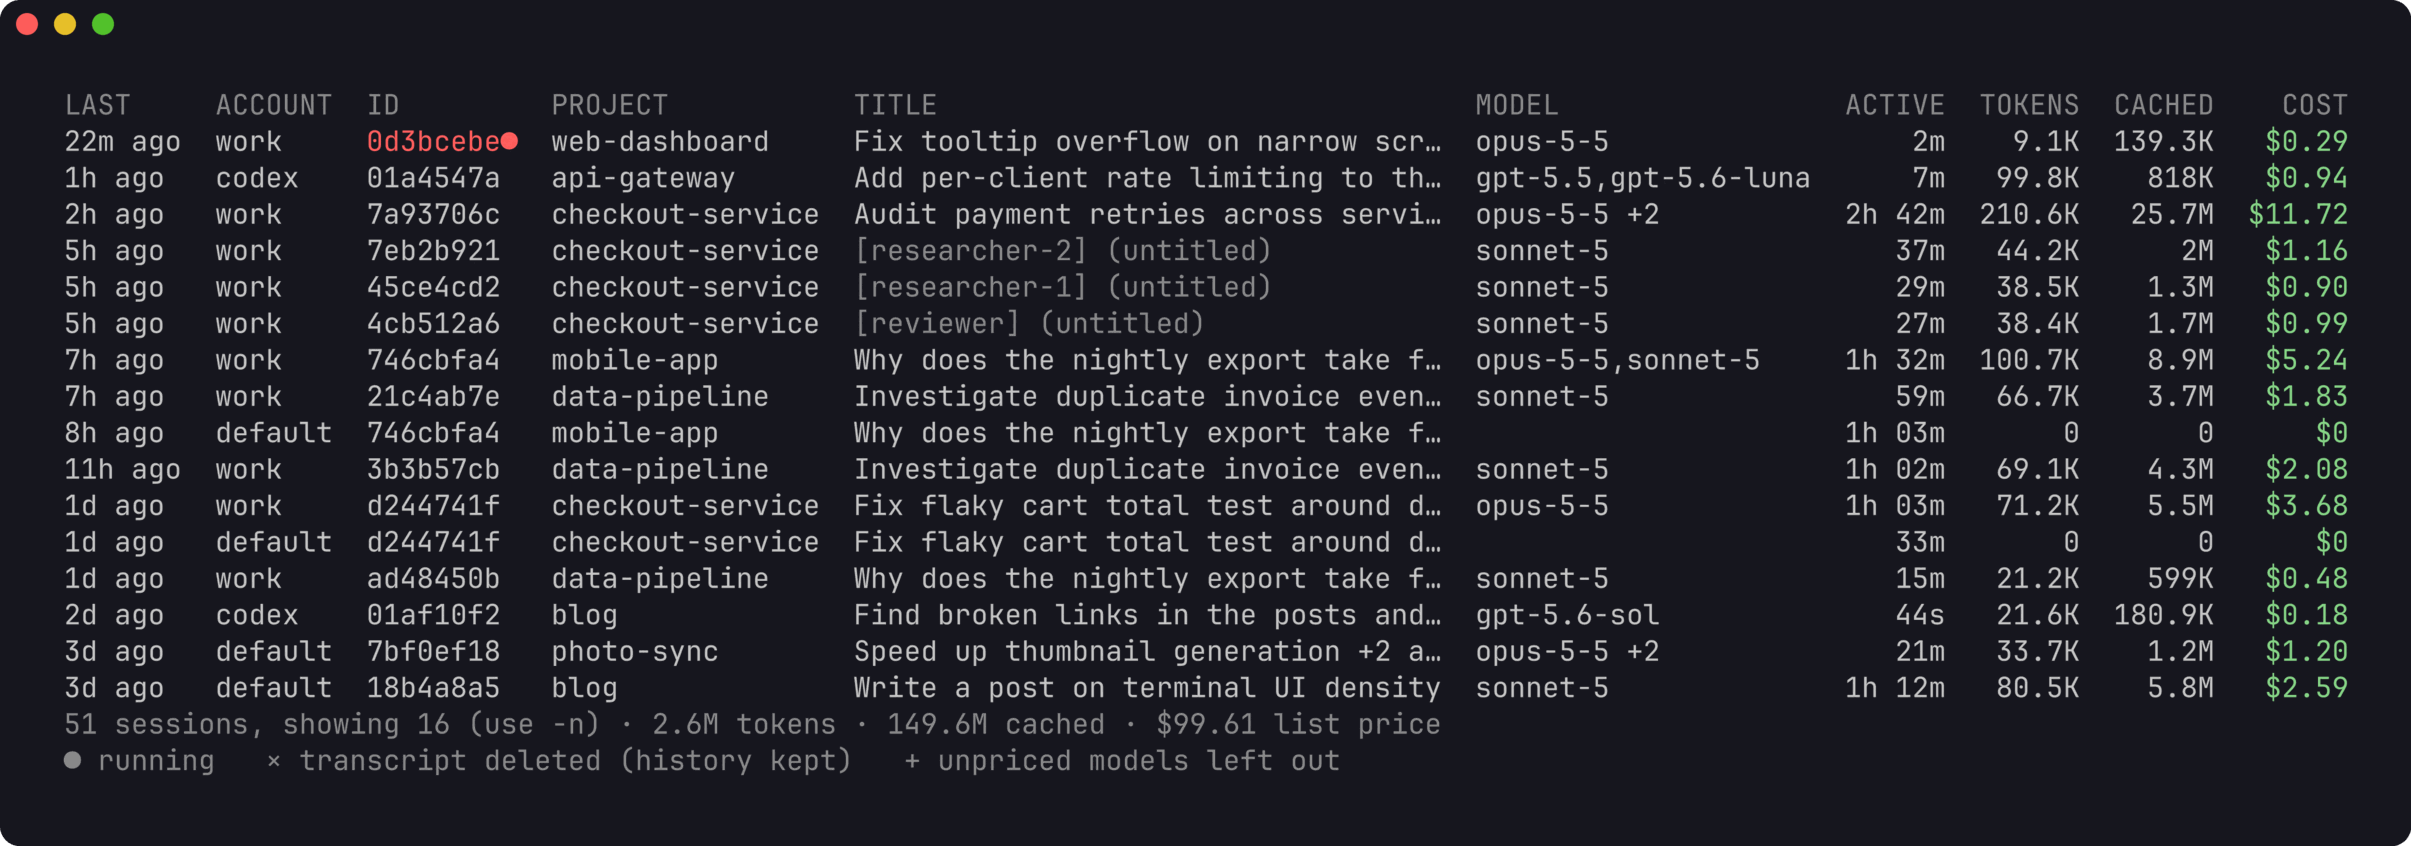
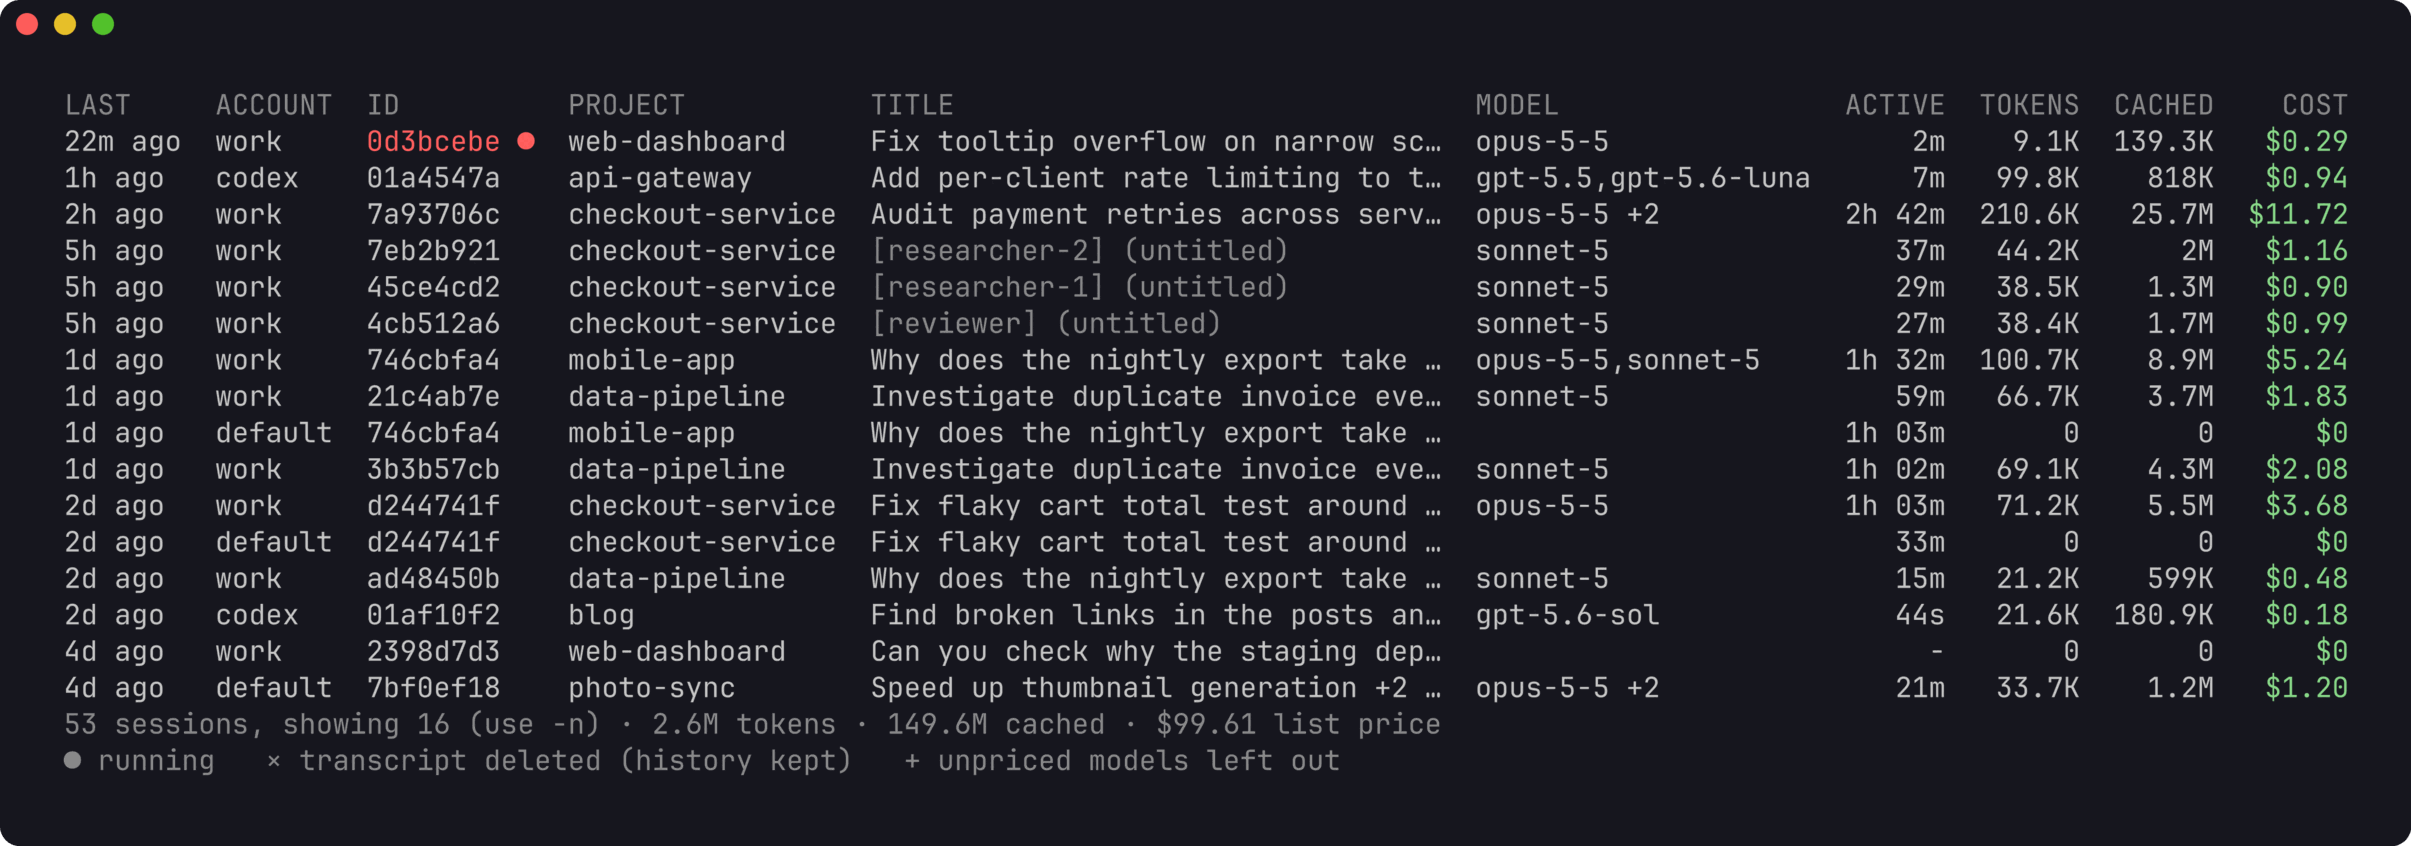
fix: show which account runs a copied session and where a copy came from
A session copied between accounts keeps its id, and the live-process
map was keyed by id alone, so a process running the copy in one account
marked every account's copy as running. The map is now keyed by account
and id. The commands that must not touch a session running anywhere
(copy, move, hide, clean) keep their own checks across accounts.

The list also had no sign of the copy relationship that ccli show
prints. A copied or moved session's account now reads "talcum ←
default", from the newest copy or move recorded in the transfer ledger;
forks are left out because they get a new id. JSON rows carry it as
copied_from.

The running and deleted marks now stand one space apart from the id, so
a double-click in the terminal selects the id alone.

Tested: go test ./..., and on the real index: only the account whose
process runs 1087b979 shows it running, and its row reads
"talcum ← default".

diff --git a/internal/query/query.go b/internal/query/query.go
@@ -151,7 +151,8 @@ type SessionRow struct {
 	Team         string       `json:"team,omitempty"`
 	AgentName    string       `json:"agent_name,omitempty"`
 	Live         bool         `json:"live"`
-	Hidden       bool         `json:"hidden,omitempty"` // set aside with `ccli hide`; counted in totals, left out of lists
+	CopiedFrom   string       `json:"copied_from,omitempty"` // account the newest copy or move into this one came from
+	Hidden       bool         `json:"hidden,omitempty"`      // set aside with `ccli hide`; counted in totals, left out of lists
 	Missing      bool         `json:"transcript_missing"`
 	GitBranch    string       `json:"git_branch,omitempty"`
 	Entrypoint   string       `json:"entrypoint,omitempty"`
@@ -179,7 +180,7 @@ type SessionPage struct {
 type DB struct {
 	st    *store.Store
 	accts []account.Account
-	live  map[string]account.Live // session id -> live process
+	live  map[skey]account.Live // live process per account and session id
 
 	cacheMu  sync.Mutex
 	cache    map[string]*SessionDetail // by ref; nil unless CacheSessions was called
@@ -197,9 +198,11 @@ func (d *DB) CacheSessions() { d.cache = map[string]*SessionDetail{} }
 
 // New builds a Service over the store.
 func New(st *store.Store, accts []account.Account) *DB {
-	live := map[string]account.Live{}
+	// Keyed by account too: a session copied between accounts has the same
+	// id in each, and a process runs only one of the copies.
+	live := map[skey]account.Live{}
 	for _, l := range account.LiveSessions(accts) {
-		live[l.SessionID] = l
+		live[skey{l.Account, l.SessionID}] = l
 	}
 	return &DB{st: st, accts: accts, live: live}
 }
@@ -208,12 +211,6 @@ func (d *DB) sql() *sql.DB { return d.st.DB() }
 
 // Accounts known to the service.
 func (d *DB) AccountList() []account.Account { return d.accts }
-
-// IsLive reports whether a process is running the session.
-func (d *DB) IsLive(id string) (account.Live, bool) {
-	l, ok := d.live[id]
-	return l, ok
-}
 
 func ms(t int64) time.Time {
 	if t == 0 {

diff --git a/internal/render/views.go b/internal/render/views.go
@@ -90,17 +90,21 @@ func (t Term) Sessions(p query.SessionPage, showAccount bool) {
 		column{title: "TOKENS", right: true}, column{title: "CACHED", right: true}, column{title: "COST", right: true},
 	)
 	var rows [][]string
+	copies := false
 	for _, s := range p.Sessions {
 		r := []string{t.Ago(s.Last)}
 		if showAccount {
-			r = append(r, s.Account)
+			r = append(r, t.accountCell(s))
+			copies = copies || s.CopiedFrom != ""
 		}
+		// The mark stands apart from the id, so a double-click selects
+		// the id alone.
 		id := query.ShortID(s.ID)
 		switch {
 		case s.Live:
-			id = t.paint(cLive, id+"●")
+			id = t.paint(cLive, id+" ●")
 		case s.Missing:
-			id = t.dim(id + "×")
+			id = t.dim(id + " ×")
 		}
 		ttl := s.Title
 		if ttl == "" {
@@ -137,7 +141,20 @@ func (t Term) Sessions(p query.SessionPage, showAccount bool) {
 	if p.Drafts > 0 {
 		t.draftsLeftOut(p.Drafts)
 	}
-	t.println(t.dim("● running   × transcript deleted (history kept)   + unpriced models left out"))
+	legend := "● running   × transcript deleted (history kept)   + unpriced models left out"
+	if copies {
+		legend += "   ← copied from that account"
+	}
+	t.println(t.dim(legend))
+}
+
+// accountCell names the session's account and, for a session ccli copied or
+// moved in, the account it came from.
+func (t Term) accountCell(s query.SessionRow) string {
+	if s.CopiedFrom == "" {
+		return s.Account
+	}
+	return s.Account + t.dim(" ← "+s.CopiedFrom)
 }
 
 func (t Term) sessionDetails(p query.SessionPage, showAccount bool) {
@@ -164,7 +181,7 @@ func (t Term) sessionDetails(p query.SessionPage, showAccount bool) {
 			where += "  " + s.Cwd
 		}
 		if showAccount {
-			where = s.Account + "  " + where
+			where = t.accountCell(s) + "  " + where
 		}
 		t.println("  " + t.dim(where))
 		t.printf("  %s · active %s · %d prompts · %d tool calls · %d subagents\n",

diff --git a/internal/query/sessions.go b/internal/query/sessions.go
@@ -67,6 +67,10 @@ func (d *DB) querySessions(ctx context.Context, f Filter, only *skey) ([]Session
 	if err != nil {
 		return nil, err
 	}
+	copied, err := d.copiedFrom(ctx)
+	if err != nil {
+		return nil, err
+	}
 	q, args := fmt.Sprintf(sessionSQL, ""), []any{f.sinceMS(), f.untilMS()}
 	if only != nil {
 		q = fmt.Sprintf(sessionSQL, "WHERE account = ?3 AND session_id = ?4")
@@ -100,7 +104,8 @@ func (d *DB) querySessions(ctx context.Context, f Filter, only *skey) ([]Session
 		s.Missing = missing != 0
 		s.Project = projectName(s.Cwd, s.ProjectKey)
 		s.Models = models[skey{s.Account, s.ID}]
-		_, s.Live = d.live[s.ID]
+		_, s.Live = d.live[skey{s.Account, s.ID}]
+		s.CopiedFrom = copied[skey{s.Account, s.ID}]
 		if !matches(s, f) {
 			continue
 		}
@@ -291,6 +296,26 @@ func RangeDays(n int, loc *time.Location) (time.Time, time.Time) {
 }
 
 // sessionModels lists each session's models, costliest first.
+// copiedFrom maps a session in an account to the account the newest copy or
+// move into it came from. A fork is left out: it gets a new id.
+func (d *DB) copiedFrom(ctx context.Context) (map[skey]string, error) {
+	rows, err := d.sql().QueryContext(ctx, `SELECT to_account, session_id, from_account FROM transfers WHERE mode <> 'fork' ORDER BY id`)
+	if err != nil {
+		return nil, err
+	}
+	defer rows.Close()
+	out := map[skey]string{}
+	for rows.Next() {
+		var k skey
+		var from string
+		if err := rows.Scan(&k.account, &k.id, &from); err != nil {
+			return nil, err
+		}
+		out[k] = from
+	}
+	return out, rows.Err()
+}
+
 func (d *DB) sessionModels(ctx context.Context, only *skey) (map[skey][]string, error) {
 	const q = `SELECT account, session_id, model FROM responses %s
 		GROUP BY account, session_id, model ORDER BY account, session_id, SUM(COALESCE(cost, 0)) DESC`

diff --git a/internal/query/query_test.go b/internal/query/query_test.go
@@ -286,3 +286,35 @@ func TestShortID(t *testing.T) {
 		t.Fatal("ShortID")
 	}
 }
+
+// A session copied between accounts has the same id in each. A process runs
+// one copy, so only that account's row is live, and the copy names the
+// account it came from.
+func TestCopiedSessionLiveAndSource(t *testing.T) {
+	fx := setup(t)
+	ctx := context.Background()
+	work := fx.accts[1]
+	os.MkdirAll(filepath.Join(work.Dir, "sessions"), 0o755)
+	reg := fmt.Sprintf(`{"sessionId":%q,"status":"busy","cwd":"/work/alpha"}`, lead)
+	if err := os.WriteFile(filepath.Join(work.Dir, "sessions", fmt.Sprintf("%d.json", os.Getpid())), []byte(reg), 0o644); err != nil {
+		t.Fatal(err)
+	}
+	if err := fx.st.RecordTransfers(ctx, []store.Transfer{{At: base, Mode: "copy", SessionID: lead,
+		FromAccount: "default", ToAccount: "work", Path: filepath.Join(work.Dir, "projects", "-work-alpha", lead+".jsonl"), To: 10}}); err != nil {
+		t.Fatal(err)
+	}
+	page, err := query.New(fx.st, fx.accts).Sessions(ctx, query.Filter{})
+	if err != nil {
+		t.Fatal(err)
+	}
+	byID := map[string]query.SessionRow{}
+	for _, s := range page.Sessions {
+		byID[s.Account+"/"+s.ID] = s
+	}
+	if s := byID["work/"+lead]; !s.Live || s.CopiedFrom != "default" {
+		t.Fatalf("work copy: live=%v copied_from=%q, want live and from default", s.Live, s.CopiedFrom)
+	}
+	if s := byID["default/"+lead]; s.Live || s.CopiedFrom != "" {
+		t.Fatalf("default original: live=%v copied_from=%q, want neither", s.Live, s.CopiedFrom)
+	}
+}

diff --git a/internal/render/home_test.go b/internal/render/home_test.go
@@ -35,3 +35,24 @@ func TestEmptySessionsNamesTheWindow(t *testing.T) {
 		t.Fatalf("empty list: %q", b.String())
 	}
 }
+
+// The running mark stands apart from the id, so a double-click in the
+// terminal selects the id alone, and a copy names the account it came from.
+func TestSessionRowMarksAndCopySource(t *testing.T) {
+	var b bytes.Buffer
+	now := time.Date(2026, 10, 22, 12, 0, 0, 0, time.UTC)
+	id := "1087b979-d8ea-4833-8f31-8baa6290d05e"
+	Term{W: &b, Width: 160, Now: now, Loc: time.UTC}.Sessions(query.SessionPage{Matched: 2, Sessions: []query.SessionRow{
+		{Account: "talcum", ID: id, Title: "t", Last: now, Live: true, CopiedFrom: "default"},
+		{Account: "default", ID: id, Title: "t", Last: now.Add(-time.Hour)},
+	}}, true)
+	out := b.String()
+	for _, want := range []string{"1087b979 ●", "talcum ← default", "← copied from that account"} {
+		if !strings.Contains(out, want) {
+			t.Fatalf("missing %q in:\n%s", want, out)
+		}
+	}
+	if strings.Contains(out, "1087b979●") {
+		t.Fatalf("mark is glued to the id:\n%s", out)
+	}
+}

diff --git a/docs/tutorial.md b/docs/tutorial.md
@@ -429,7 +429,8 @@ and the turns you ran in default count toward default, however often the
 session goes back and forth. ccli records every byte range it copies into an
 account, and a response that arrived with a copy never counts toward the
 account it was copied into. A copy that has not done any new work yet shows
-$0.
+$0, and its MODEL column stays empty until it makes its first call. In
+`ccli sessions` its account reads `default ← work`, naming where it came from.
 
 Add `--print` to see the command without running it, and `--fork` to resume
 into a new session id (Claude Code's `--fork-session`).

diff --git a/README.md b/README.md
@@ -346,6 +346,12 @@ and forth. ccli records every byte range it copies into an account, and a
 response that came in with a copy never counts toward the account it was
 copied into. A forked session starts at $0 in its new account.
 
+In `ccli sessions`, a copied or moved session's account reads
+`talcum ← default`: the account it is in, then the account the newest copy
+into it came from. `ccli show` lists every copy between accounts. A Claude
+Code process runs only one copy of a session, so only that account's row
+shows it as running.
+
 ### Clearing out empty sessions
 
 ```sh
